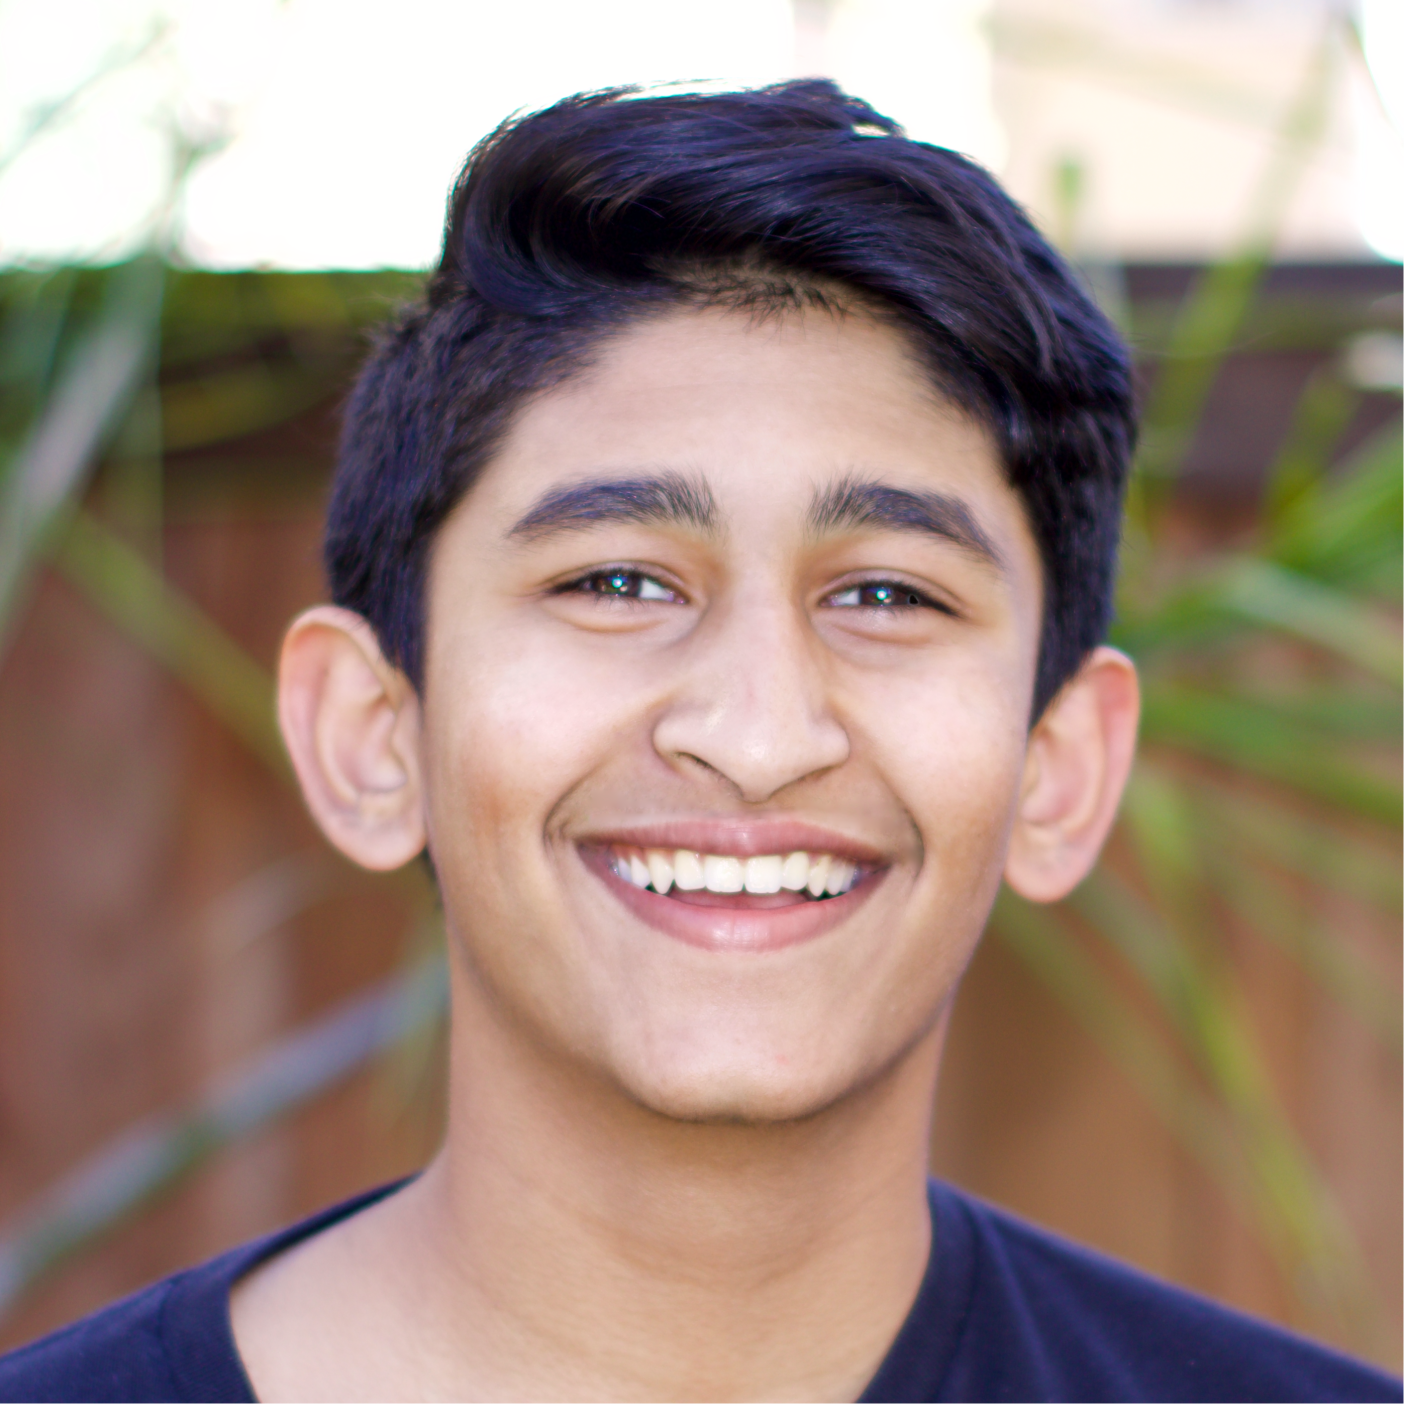
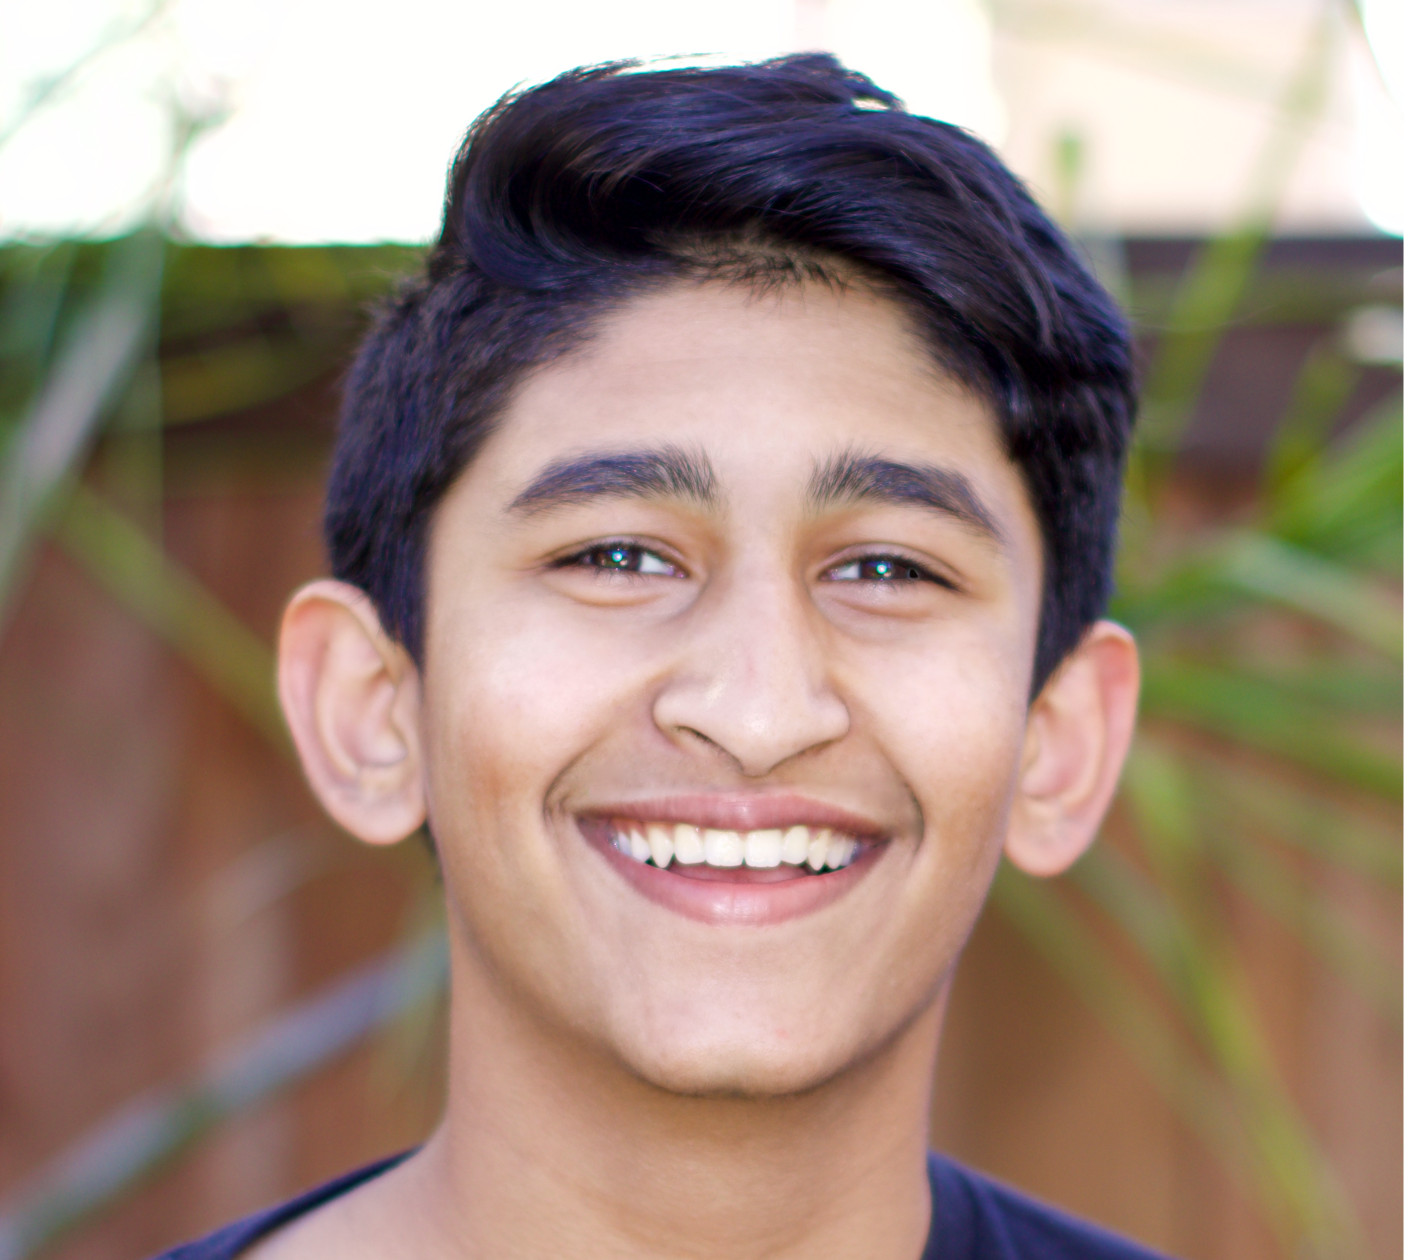
varun and vasu pic update

diff --git a/website/about.html b/website/about.html
@@ -169,7 +169,7 @@ If you have any thought, questions, or concerns please email us at <a href="mail
                 <div class="col-xl-3 col-md-6 col-lg-3">
                     <div class="single_team">
                         <div class="thumb">
-                            <img src="img/team/Varun.png" alt="" style="height: 230px; object-fit: cover">
+                            <img src="img/team/varun.png" alt="" style="height: 230px; object-fit: cover">
                             <div class="social_link">
                                 <a href="mailto:varunchitturi@icloud.com"><i class="fa fa-envelope"></i></a>
                                 <a href="https://github.com/varunchitturi"><i class="fa fa-github"></i></a>
@@ -229,7 +229,7 @@ If you have any thought, questions, or concerns please email us at <a href="mail
                 <div class="col-xl-3 col-md-6 col-lg-3">
                     <div class="single_team">
                         <div class="thumb">
-                            <img src="img/team/VasuSquare.jpg" alt="" style="height: 230px; object-fit: cover">
+                            <img src="img/team/vasu.png" alt="" style="height: 230px; object-fit: cover">
                             <div class="social_link">
                                 <a href="mailto:vasudevvinod@yahoo.com"><i class="fa fa-envelope"></i></a>
                                 <a href="https://www.linkedin.com/in/vasudev-vinod-977361215/"><i class="fa fa-linkedin"></i></a>
